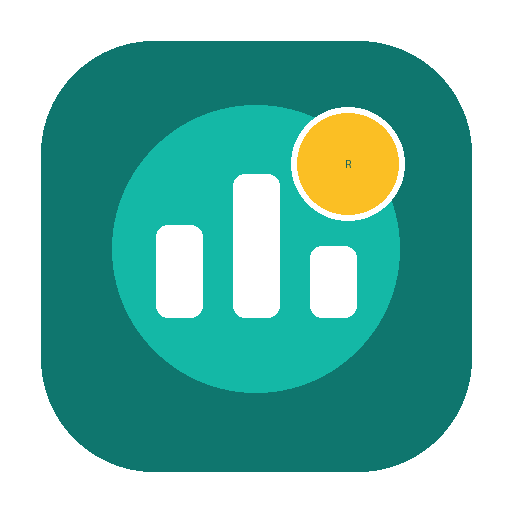
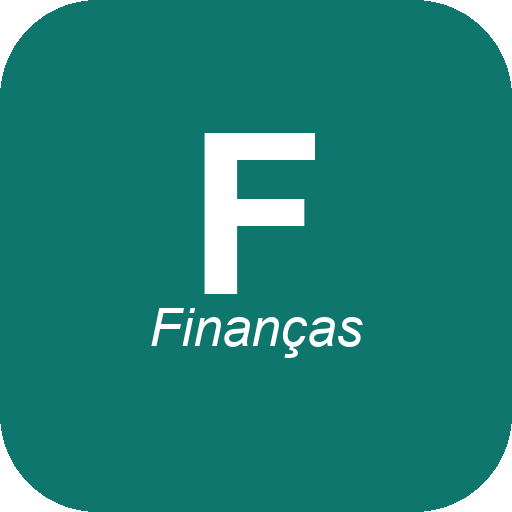
Add files via upload

diff --git a/app.js b/app.js
@@ -1,3 +1,5 @@
+const APP_VERSION = "11";
+const INSTALL_HINT_KEY = "financas-install-hint-v11";
 const KEY = "minhas-financas-config";
 const SCOPE =
   "https://www.googleapis.com/auth/spreadsheets https://www.googleapis.com/auth/userinfo.profile";
@@ -597,6 +599,102 @@ function filteredDespesas() {
   });
 }
 
+function isAndroid() {
+  return /Android/i.test(navigator.userAgent);
+}
+
+function isStandalone() {
+  return (
+    window.matchMedia("(display-mode: standalone)").matches ||
+    window.matchMedia("(display-mode: fullscreen)").matches ||
+    window.navigator.standalone === true
+  );
+}
+
+function isMobile() {
+  return /Android|iPhone|iPad|iPod/i.test(navigator.userAgent);
+}
+
+function isIOS() {
+  return /iPhone|iPad|iPod/i.test(navigator.userAgent);
+}
+
+function isFullscreenActive() {
+  return !!(
+    document.fullscreenElement ||
+    document.webkitFullscreenElement ||
+    document.msFullscreenElement
+  );
+}
+
+function isNonStandardPort() {
+  const port = window.location.port;
+  return port !== "" && port !== "443" && port !== "80";
+}
+
+function shouldShowFullscreenControl() {
+  if (!isMobile() || isFullscreenActive()) return false;
+  if (isIOS()) return !window.navigator.standalone;
+  if (isAndroid()) {
+    if (isNonStandardPort()) return true;
+    if (!isStandalone()) return true;
+    return window.location.protocol === "http:";
+  }
+  return !isStandalone();
+}
+
+function enterFullscreen() {
+  const el = document.documentElement;
+  const fn =
+    el.requestFullscreen ||
+    el.webkitRequestFullscreen ||
+    el.webkitRequestFullScreen ||
+    el.msRequestFullscreen;
+  if (!fn) return Promise.reject(new Error("unsupported"));
+  try {
+    return Promise.resolve(fn.call(el, { navigationUI: "hide" }));
+  } catch {
+    return Promise.resolve(fn.call(el));
+  }
+}
+
+function renderInstallHint() {
+  if (localStorage.getItem(INSTALL_HINT_KEY) === "1") return "";
+  if (!isMobile()) return "";
+  if (isStandalone() && !isNonStandardPort() && window.location.protocol === "https:") return "";
+
+  let msg =
+    "Menu ⋮ → <strong>Instalar app</strong> (ou Adicionar à tela inicial) e abra pelo ícone <strong>Finanças</strong>.";
+  if (isIOS()) {
+    msg =
+      "No iPhone, abra no <strong>Safari</strong> → Compartilhar → <strong>Adicionar à Tela de Início</strong> (não use o Chrome).";
+  } else if (isNonStandardPort()) {
+    msg =
+      "Pela porta não padrão, o Chrome pode manter a barra. Toque em <strong>Tela cheia</strong> abaixo ou no botão <strong>⛶</strong> no topo.";
+  } else if (window.location.protocol === "https:") {
+    msg =
+      "Instale pelo menu ⋮ → <strong>Instalar app</strong>. Se a barra do Chrome aparecer, use <strong>Tela cheia</strong> ou <strong>⛶</strong> no topo.";
+  } else if (window.location.protocol === "http:") {
+    msg = isStandalone()
+      ? "Abra pelo ícone <strong>Finanças</strong> na tela inicial. Para sumir a barra de vez, use <strong>HTTPS</strong>."
+      : "Adicione à tela inicial (Menu ⋮ → Instalar app). Se a barra aparecer, use <strong>Tela cheia</strong> ou <strong>⛶</strong> no topo.";
+  }
+
+  return `
+    <div class="install-hint" id="install-hint">
+      <p>${msg}</p>
+      <div class="install-hint-actions">
+        <button type="button" class="install-hint-full" id="btn-fullscreen">Tela cheia</button>
+        <button type="button" class="install-hint-close" id="btn-dismiss-install">Entendi</button>
+      </div>
+    </div>`;
+}
+
+function renderFullscreenBarBtn() {
+  if (!shouldShowFullscreenControl()) return "";
+  return `<button type="button" class="conn-link" id="btn-fullscreen-bar" title="Tela cheia">⛶</button>`;
+}
+
 function esc(s) {
   return String(s ?? "")
     .replace(/&/g, "&amp;")
@@ -650,9 +748,13 @@ function tabs() {
 function painelView(m) {
   return `
     <div class="scroll">
+      ${renderInstallHint()}
       <div class="topbar">
         <div class="hello">Olá, ${esc(state.nome)}</div>
-        <button class="linkish" id="btnReload">${state.loading ? "Atualizando…" : "Atualizar"}</button>
+        <div class="topbar-actions">
+          ${renderFullscreenBarBtn()}
+          <button class="linkish" id="btnReload">${state.loading ? "Atualizando…" : "Atualizar"}</button>
+        </div>
       </div>
       <div class="title">${esc(state.mes)} ${esc(state.ano)}</div>
       <div class="hero">
@@ -962,6 +1064,18 @@ function bind() {
     if (el) el.addEventListener(ev, fn);
   };
 
+  const goFullscreen = () => {
+    enterFullscreen()
+      .then(() => showToast("Tela cheia ativada."))
+      .catch(() => showToast("Tela cheia indisponível neste navegador."));
+  };
+  on("btn-fullscreen", "click", goFullscreen);
+  on("btn-fullscreen-bar", "click", goFullscreen);
+  on("btn-dismiss-install", "click", () => {
+    localStorage.setItem(INSTALL_HINT_KEY, "1");
+    document.getElementById("install-hint")?.remove();
+  });
+
   on("btnConnect", "click", async () => {
     const err = document.getElementById("setupErr");
     applyStoredConfig();
@@ -1032,7 +1146,17 @@ async function boot() {
   applyStoredConfig();
   render();
   if ("serviceWorker" in navigator) {
-    navigator.serviceWorker.register("/sw.js", { scope: "/" }).catch(() => {});
+    navigator.serviceWorker
+      .getRegistrations()
+      .then((regs) => {
+        regs.forEach((reg) => reg.unregister().catch(() => {}));
+      })
+      .finally(() => {
+        navigator.serviceWorker
+          .register(`./sw.js?v=${APP_VERSION}`)
+          .then((reg) => reg.update())
+          .catch(() => {});
+      });
   }
   try {
     await ensureSession();

diff --git a/sw.js b/sw.js
@@ -1,30 +1,35 @@
-const CACHE = "minhas-financas-v10";
-const CORE = ["/index.html", "/styles.css", "/app.js", "/manifest.webmanifest", "/icons/icon192.png", "/icons/icon512.png"];
+const CACHE = "minhas-financas-v11";
 
-self.addEventListener("install", (event) => {
-  event.waitUntil(caches.open(CACHE).then((c) => c.addAll(CORE)));
+self.addEventListener("install", (e) => {
   self.skipWaiting();
+  e.waitUntil(caches.open(CACHE).then((c) => c.addAll(["./manifest.webmanifest"])));
 });
 
-self.addEventListener("activate", (event) => {
-  event.waitUntil(
-    caches.keys().then((keys) =>
-      Promise.all(keys.filter((k) => k !== CACHE).map((k) => caches.delete(k)))
-    )
+self.addEventListener("activate", (e) => {
+  e.waitUntil(
+    caches
+      .keys()
+      .then((keys) => Promise.all(keys.filter((k) => k !== CACHE).map((k) => caches.delete(k))))
+      .then(() => self.clients.claim())
   );
-  self.clients.claim();
 });
 
-self.addEventListener("fetch", (event) => {
-  const url = new URL(event.request.url);
-  if (url.origin !== location.origin) return;
-  event.respondWith(
-    fetch(event.request)
-      .then((res) => {
-        const copy = res.clone();
-        caches.open(CACHE).then((c) => c.put(event.request, copy));
-        return res;
-      })
-      .catch(() => caches.match(event.request).then((r) => r || caches.match("/index.html")))
-  );
+async function networkFirst(request) {
+  try {
+    const res = await fetch(request, { cache: "no-store" });
+    if (res.ok) {
+      const cache = await caches.open(CACHE);
+      cache.put(request, res.clone());
+    }
+    return res;
+  } catch {
+    const hit = await caches.match(request);
+    if (hit) return hit;
+    throw new Error("offline");
+  }
+}
+
+self.addEventListener("fetch", (e) => {
+  if (e.request.method !== "GET") return;
+  e.respondWith(networkFirst(e.request));
 });

diff --git a/index.html b/index.html
@@ -2,23 +2,24 @@
 <html lang="pt-BR">
 <head>
   <meta charset="UTF-8" />
-  <meta name="viewport" content="width=device-width, initial-scale=1, viewport-fit=cover" />
+  <meta name="viewport" content="width=device-width, initial-scale=1, maximum-scale=1, viewport-fit=cover" />
   <meta name="theme-color" content="#0f766e" />
   <meta name="mobile-web-app-capable" content="yes" />
   <meta name="apple-mobile-web-app-capable" content="yes" />
   <meta name="apple-mobile-web-app-status-bar-style" content="black-translucent" />
   <meta name="apple-mobile-web-app-title" content="Finanças" />
+  <meta name="application-name" content="Finanças" />
   <title>Minhas Finanças</title>
-  <link rel="manifest" href="/manifest.webmanifest" />
-  <link rel="apple-touch-icon" href="/icons/icon192.png" />
-  <link rel="icon" href="/icons/icon192.png" />
+  <link rel="manifest" href="./manifest.webmanifest" />
+  <link rel="icon" type="image/png" sizes="192x192" href="./icons/icon192.png" />
+  <link rel="apple-touch-icon" href="./icons/icon192.png" />
   <link rel="preconnect" href="https://fonts.googleapis.com" />
   <link href="https://fonts.googleapis.com/css2?family=DM+Sans:opsz,wght@9..40,400;9..40,500;9..40,600;9..40,700&display=swap" rel="stylesheet" />
-  <link rel="stylesheet" href="./styles.css" />
+  <link rel="stylesheet" href="./styles.css?v=11" />
 </head>
 <body>
   <div id="root"></div>
   <script src="https://accounts.google.com/gsi/client" async defer></script>
-  <script src="./app.js"></script>
+  <script src="./app.js?v=11"></script>
 </body>
 </html>

diff --git a/styles.css b/styles.css
@@ -267,8 +267,61 @@ body {
 .muted { color: var(--muted); font-size: 13px; }
 .busy { opacity: 0.6; pointer-events: none; }
 .error { color: var(--rose); font-size: 13px; margin-top: 10px; }
+.install-hint {
+  margin: 0 0 10px;
+  padding: 10px 12px;
+  background: #ecfeff;
+  border: 1px solid #99f6e4;
+  border-radius: 14px;
+  font-size: 12px;
+  line-height: 1.45;
+  color: #115e59;
+}
+.install-hint p { margin: 0; }
+.install-hint-actions {
+  display: flex;
+  gap: 8px;
+  margin-top: 8px;
+}
+.install-hint-full,
+.install-hint-close {
+  border: 0;
+  border-radius: 10px;
+  padding: 6px 10px;
+  font-family: inherit;
+  font-size: 11px;
+  font-weight: 700;
+  cursor: pointer;
+}
+.install-hint-full {
+  background: #115e59;
+  color: #fff;
+}
+.install-hint-close {
+  background: #e8eef3;
+  color: var(--ink);
+}
 .topbar {
-  display: flex; justify-content: space-between; align-items: center;
+  display: flex; justify-content: space-between; align-items: center; gap: 10px;
+}
+.topbar-actions {
+  display: flex;
+  align-items: center;
+  gap: 6px;
+  flex-shrink: 0;
+}
+.conn-link {
+  border: 0;
+  background: #e8eef3;
+  width: 28px;
+  height: 28px;
+  border-radius: 9px;
+  font-size: 14px;
+  line-height: 1;
+  display: grid;
+  place-items: center;
+  cursor: pointer;
+  font-family: inherit;
 }
 .linkish {
   border: 0; background: transparent; color: var(--teal-2);

diff --git a/icons/generate_png_icons.py b/icons/generate_png_icons.py
@@ -1,0 +1,74 @@
+from pathlib import Path
+
+from PIL import Image, ImageDraw, ImageFont
+
+ROOT = Path(__file__).resolve().parent
+BG = (15, 118, 110, 255)
+WHITE = (255, 255, 255, 255)
+TITLE = "F"
+SUBTITLE = "Finanças"
+
+
+def load_font(size: int, italic: bool = False) -> ImageFont.ImageFont:
+    names = (
+        ("ariali.ttf", "Arial Italic.ttf", "ARIALI.TTF")
+        if italic
+        else ("arialbd.ttf", "Arial Bold.ttf", "ARIALBD.TTF", "arial.ttf")
+    )
+    for name in names:
+        try:
+            return ImageFont.truetype(name, size)
+        except OSError:
+            continue
+    return ImageFont.load_default()
+
+
+def text_size(draw, text, font):
+    bbox = draw.textbbox((0, 0), text, font=font)
+    return bbox[2] - bbox[0], bbox[3] - bbox[1], bbox
+
+
+def fit_subtitle_font(draw: ImageDraw.ImageDraw, target_width: int, size: int) -> ImageFont.ImageFont:
+    lo, hi = 4, max(8, int(size * 0.11))
+    best = load_font(lo, italic=True)
+    while lo <= hi:
+        mid = (lo + hi) // 2
+        font = load_font(mid, italic=True)
+        width, _, _ = text_size(draw, SUBTITLE, font)
+        if width <= target_width:
+            best = font
+            lo = mid + 1
+        else:
+            hi = mid - 1
+    return best
+
+
+def draw_icon(size: int, path: Path) -> None:
+    img = Image.new("RGBA", (size, size), (0, 0, 0, 0))
+    draw = ImageDraw.Draw(img)
+    radius = int(size * 0.19)
+    draw.rounded_rectangle((0, 0, size - 1, size - 1), radius=radius, fill=BG)
+
+    title_font = load_font(int(size * 0.44))
+    tw, th, tb = text_size(draw, TITLE, title_font)
+    sub_font = fit_subtitle_font(draw, int(tw * 1.6), size)
+    sw, sh, sb = text_size(draw, SUBTITLE, sub_font)
+
+    gap = int(size * 0.028)
+    block_h = th + gap + sh
+    top = (size - block_h) / 2 - size * 0.02
+
+    title_x = (size - tw) / 2 - tb[0]
+    title_y = top - tb[1]
+    sub_x = (size - sw) / 2 - sb[0]
+    sub_y = top + th + gap - sb[1]
+
+    draw.text((title_x, title_y), TITLE, fill=WHITE, font=title_font)
+    draw.text((sub_x, sub_y), SUBTITLE, fill=WHITE, font=sub_font)
+    img.save(path, format="PNG")
+
+
+if __name__ == "__main__":
+    draw_icon(192, ROOT / "icon192.png")
+    draw_icon(512, ROOT / "icon512.png")
+    print("ok")
